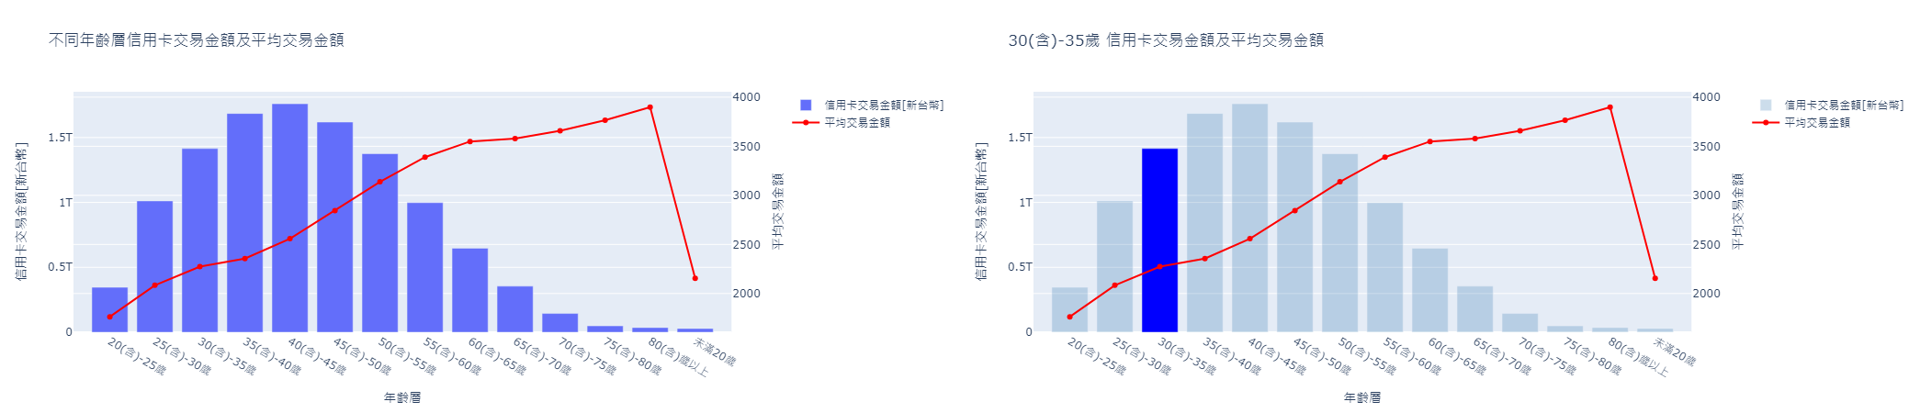
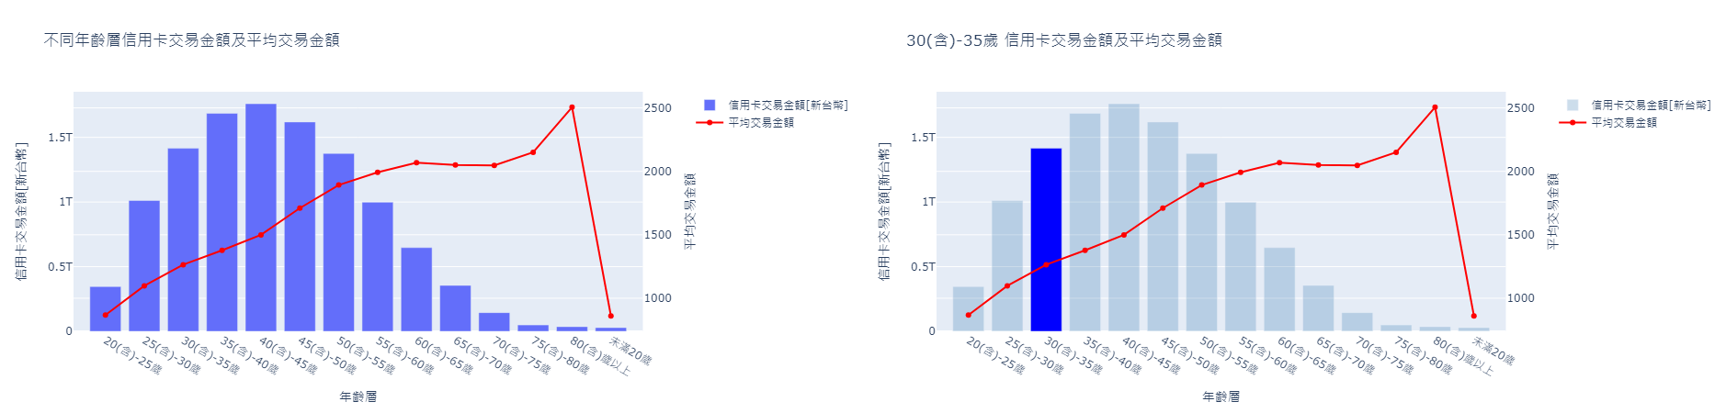
modify

diff --git a/dash_file/dash_ML.py b/dash_file/dash_ML.py
@@ -143,12 +143,12 @@ dash_ML.layout = html.Div(
 def ind_chart(selected_ind):
     global df
     if selected_ind == "ALL":
-        df["平均交易金額"] = df["信用卡交易金額[新台幣]"] / df["信用卡交易筆數"]
         agg_df = (
             df.groupby("產業別")
-            .agg({"信用卡交易金額[新台幣]": "sum", "信用卡交易筆數": "sum", "平均交易金額": "mean"})
+            .agg({"信用卡交易金額[新台幣]": "sum", "信用卡交易筆數": "sum"})
             .reset_index()
         )
+        agg_df["平均交易金額"] = agg_df["信用卡交易金額[新台幣]"] / agg_df["信用卡交易筆數"]
         fig = make_subplots(specs=[[{"secondary_y": True}]])
         fig.add_trace(
             go.Bar(x=agg_df["產業別"], y=agg_df["信用卡交易金額[新台幣]"], name="信用卡交易金額[新台幣]"),
@@ -169,12 +169,12 @@ def ind_chart(selected_ind):
         fig.update_yaxes(title_text="信用卡交易金額[新台幣]", secondary_y=False)
         fig.update_yaxes(title_text="平均交易金額", secondary_y=True)
     else:
-        df["平均交易金額"] = df["信用卡交易金額[新台幣]"] / df["信用卡交易筆數"]
         agg_df = (
             df.groupby("產業別")
-            .agg({"信用卡交易金額[新台幣]": "sum", "信用卡交易筆數": "sum", "平均交易金額": "mean"})
+            .agg({"信用卡交易金額[新台幣]": "sum", "信用卡交易筆數": "sum"})
             .reset_index()
         )
+        agg_df["平均交易金額"] = agg_df["信用卡交易金額[新台幣]"] / agg_df["信用卡交易筆數"]
 
         highlighted_ind = selected_ind
         print(highlighted_ind)
@@ -215,13 +215,12 @@ def ind_chart(selected_ind):
 def age_chart(selected_age):
     global df
     if selected_age == "ALL":
-        df["平均交易金額"] = df["信用卡交易金額[新台幣]"] / df["信用卡交易筆數"]
-
         agg_df = (
             df.groupby("年齡層")
-            .agg({"信用卡交易金額[新台幣]": "sum", "信用卡交易筆數": "sum", "平均交易金額": "mean"})
+            .agg({"信用卡交易金額[新台幣]": "sum", "信用卡交易筆數": "sum"})
             .reset_index()
         )
+        agg_df["平均交易金額"] = agg_df["信用卡交易金額[新台幣]"] / agg_df["信用卡交易筆數"]
 
         fig = make_subplots(specs=[[{"secondary_y": True}]])
 
@@ -248,13 +247,12 @@ def age_chart(selected_age):
         fig.update_yaxes(title_text="信用卡交易金額[新台幣]", secondary_y=False)
         fig.update_yaxes(title_text="平均交易金額", secondary_y=True)
     else:
-        df["平均交易金額"] = df["信用卡交易金額[新台幣]"] / df["信用卡交易筆數"]
-
         agg_df = (
             df.groupby("年齡層")
-            .agg({"信用卡交易金額[新台幣]": "sum", "信用卡交易筆數": "sum", "平均交易金額": "mean"})
+            .agg({"信用卡交易金額[新台幣]": "sum", "信用卡交易筆數": "sum"})
             .reset_index()
         )
+        agg_df["平均交易金額"] = agg_df["信用卡交易金額[新台幣]"] / agg_df["信用卡交易筆數"]
 
         fig = make_subplots(specs=[[{"secondary_y": True}]])
         highlighted_age = selected_age
@@ -296,14 +294,13 @@ def age_chart(selected_age):
 def ar_chart(selected_ar):
     global df
     if selected_ar == "ALL":
-        df["平均交易金額"] = df["信用卡交易金額[新台幣]"] / df["信用卡交易筆數"]
-
         agg_df = (
             df.groupby("地區")
-            .agg({"信用卡交易金額[新台幣]": "sum", "信用卡交易筆數": "sum", "平均交易金額": "mean"})
+            .agg({"信用卡交易金額[新台幣]": "sum", "信用卡交易筆數": "sum"})
             .reset_index()
         )
 
+        agg_df["平均交易金額"] = agg_df["信用卡交易金額[新台幣]"] / agg_df["信用卡交易筆數"]
         fig = make_subplots(specs=[[{"secondary_y": True}]])
 
         fig.add_trace(
@@ -329,13 +326,12 @@ def ar_chart(selected_ar):
         fig.update_yaxes(title_text="信用卡交易金額[新台幣]", secondary_y=False)
         fig.update_yaxes(title_text="平均交易金額", secondary_y=True)
     else:
-        df["平均交易金額"] = df["信用卡交易金額[新台幣]"] / df["信用卡交易筆數"]
-
         agg_df = (
             df.groupby("地區")
-            .agg({"信用卡交易金額[新台幣]": "sum", "信用卡交易筆數": "sum", "平均交易金額": "mean"})
+            .agg({"信用卡交易金額[新台幣]": "sum", "信用卡交易筆數": "sum"})
             .reset_index()
         )
+        agg_df["平均交易金額"] = agg_df["信用卡交易金額[新台幣]"] / agg_df["信用卡交易筆數"]
 
         fig = make_subplots(specs=[[{"secondary_y": True}]])
         highlighted_ar = selected_ar

diff --git a/README.md b/README.md
@@ -16,6 +16,7 @@
 圖表說明：  
 一、長條圖及折線圖 [隨著篩選按鈕變化而變化]  
 1. 不同產業別信用卡交易金額及平均交易金額  
+長條圖是顯示各產業別的信用卡交易金額，折線圖是顯示平均交易金額，依圖表可觀察出百貨業的消費金額最高
 ![不同產業別信用卡交易金額及平均交易金額](./不同產業別信用卡交易金額.png)   
 2. 不同地區信用卡交易金額及平均交易金額  
 ![不同地區信用卡交易金額及平均交易金額](./不同地區信用卡交易金額.png)
@@ -34,11 +35,10 @@
 
 三、模型  
 1. 多元線性迴歸模型  
-顯示2014年1月份至2023年9月份期間每月份的信用卡交易金額及趨勢，由圖可觀察出信用卡交易金額逐年增加，則最後三個紅點為透過多元線性迴歸模型預測出10,11,12三月份的信用卡交易金額。
+顯示2014年1月份至2023年9月份期間每月份的信用卡交易金額及趨勢，由圖可觀察出信用卡交易金額逐年增加，則最後三個紅點為透過多元線性迴歸模型預測出10,11,12三個月份的信用卡交易金額。
 ![模型](./模型.png)
 
-# 專題組員
-盧宗基、林玫蓀、李亦宣
+
 # 專題目的
 感於近年來受疫情影響，國人消費形態及支付方式改變，網路交易及外送盛行，希望藉由國人消費様態分析作為發卡及收單機構推廣特約商店及行銷推廣之參考，並預估下月份之信用卡消費金額。
 # 資料說明
